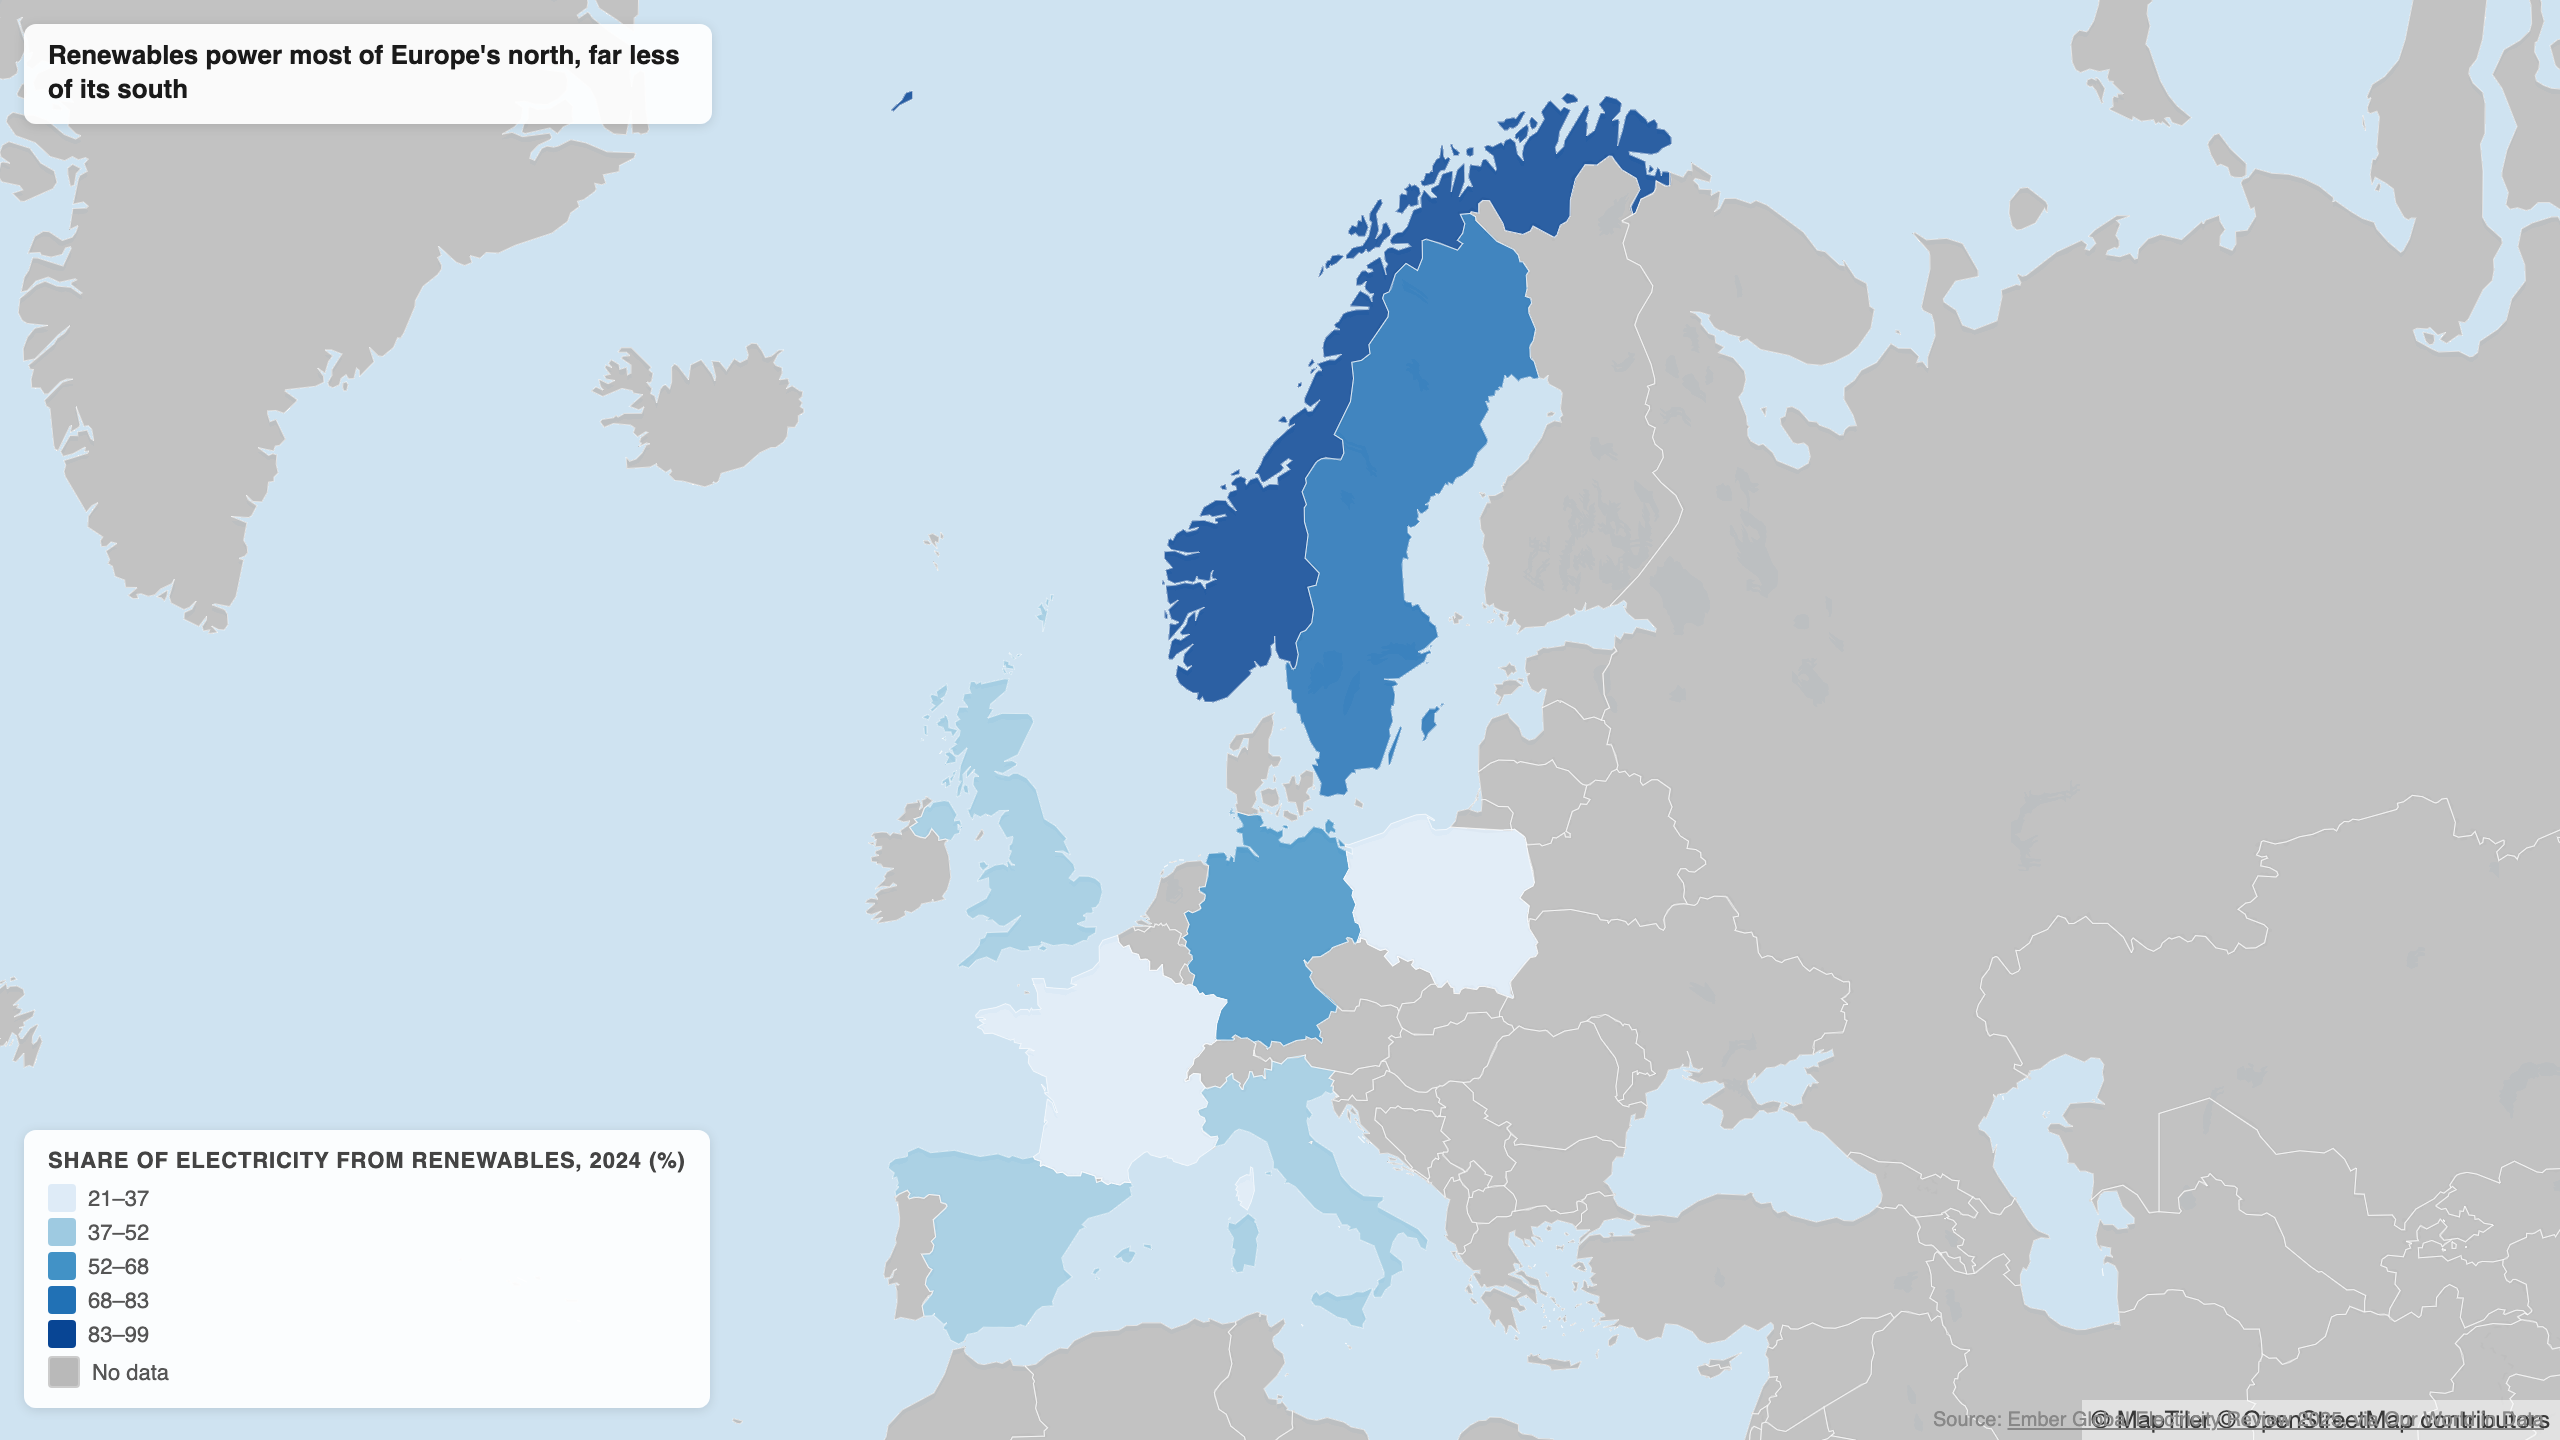
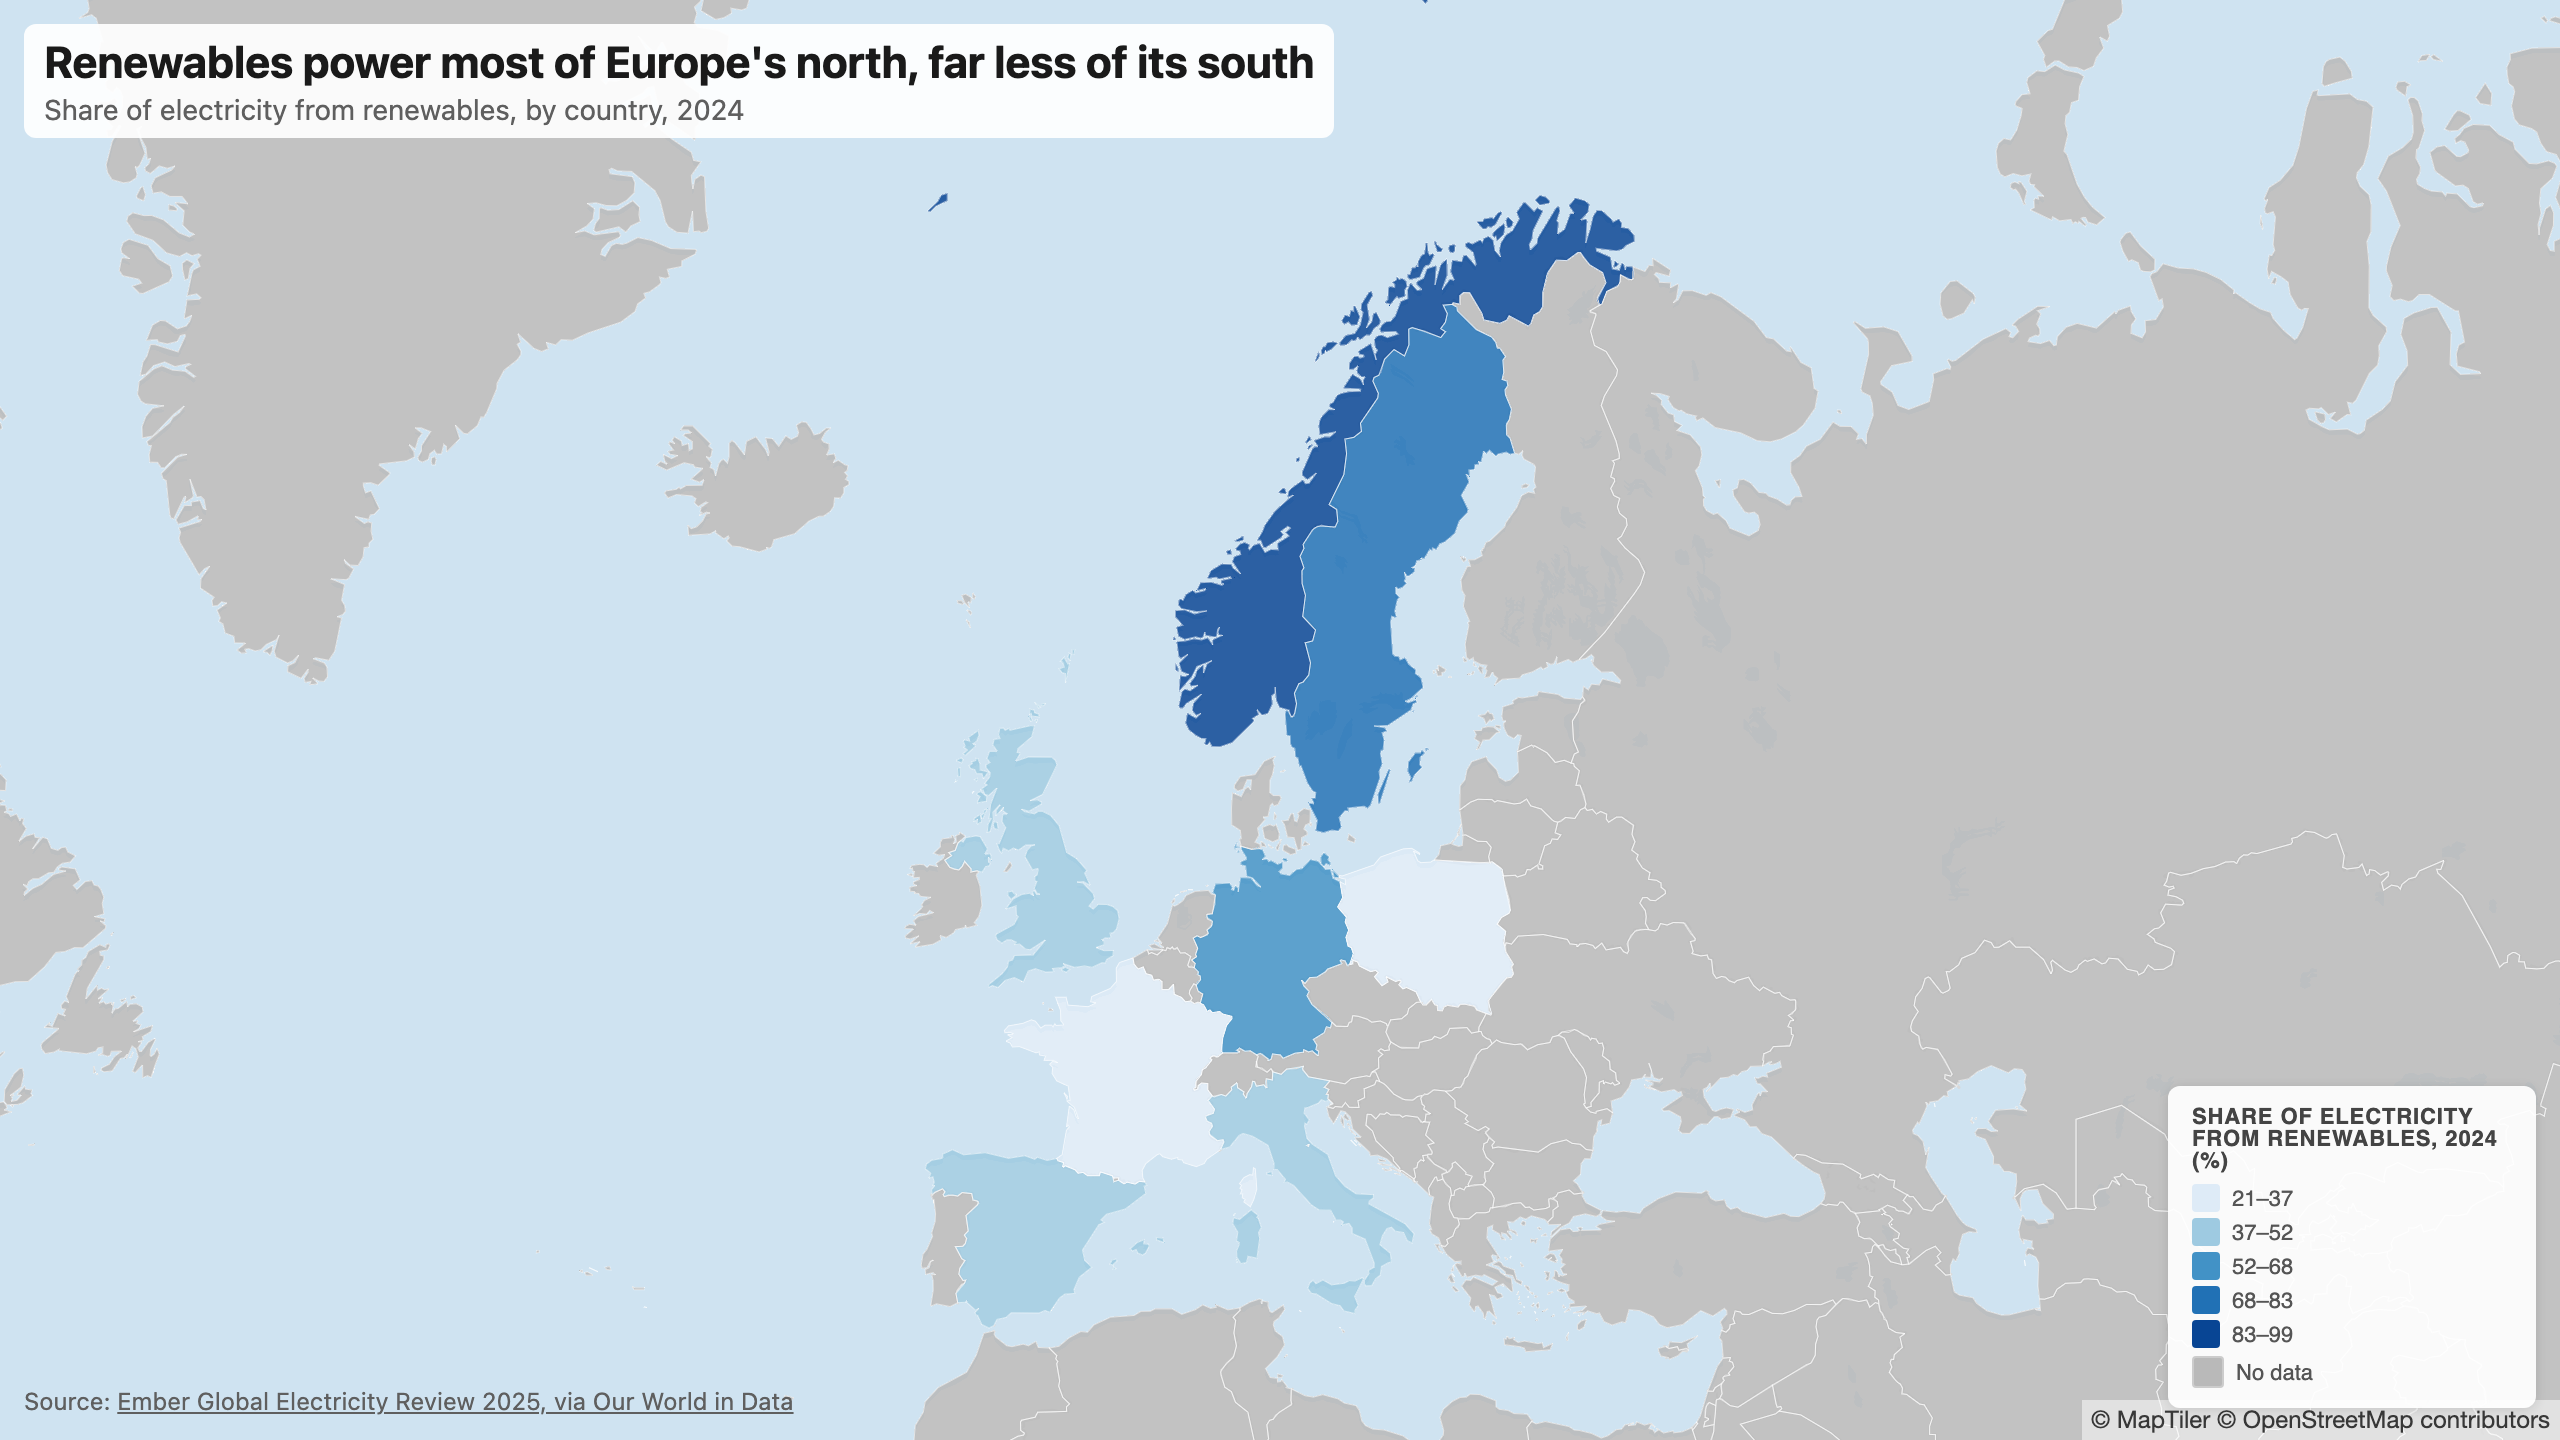
docs: record MapFrame parity slice 1 merged + maps-charts parity program (slices 2-4 remaining)

Changed region(s): [[0.3438, 0.0, 1.0, 1.0], [0.0, 0.0, 0.5312, 0.4688], [0.0, 0.5625, 0.3125, 1.0]]

diff --git a/CLAUDE.md b/CLAUDE.md
@@ -155,6 +155,12 @@ Atelier = **un skill open-source MIT, installable, agnostique runtime, local-fir
 - **Principe gravé (mémoire `feedback_capability_not_default`)** : quand un feature a plusieurs traitements valides (modes caméra vidéo : tour / zoom-out / pan / 3D), NE PAS coder un défaut — construire la capacité paramétrée, l'IA choisit par l'article. Vaut pour tous les types de map.
 - **RESTE — slice C (designé, pas construit)** : **système de modes caméra vidéo** (tour guidé ville par ville / zoom-out depuis le leader / pan cinématique / survol 3D différé), choisi par l'intention de l'article, sur l'infra `map-story.ts`+`story-timeline.ts` existante (déjà beat-driven frame-déterministe). Spec à écrire quand on l'attaque. Note : `text-allow-overlap:false` peut masquer des labels sous une caméra zoom-out → à gérer dans la slice C.
 
+## ★ PROGRAMME PARITÉ maps↔charts — « le même dispositif que les charts, pour les maps sous tous les formats »
+- **Origine** : retour Rémy — « le titre est sur des valeurs et doit pas sortir de l'écran vidéo » puis « récupère le process/la recette des charts pour faire pareil pour les maps et tous leurs formats, on assurera un bon résultat en prod ». Cartographie du gap chart-native↔map-native faite (synthèse : core pur OK, mais manquaient frame partagé, scaling format, conformance format-aware+cadrage, harnais vérif multi-largeur+a11y, KB). Découpé en **4 slices**, séquence 1→2→3→4.
+- **Slice 1 — MapFrame MERGÉ** (`745f31c`, 2026-06-29) : porté le triptyque chart `tokens`→`resolveFrame`→`ChartFrame` aux maps : `src/theme/map-tokens.ts` (FRAME_TYPE/FONT/COLORS) + `src/core/map-format.ts` `resolveMapFrame(w,h)` (pur, 9 tests : `scale` par canvas + `pad` safe-area asymétrique) + `src/core/MapFrame.tsx` (shell partagé : titre bande-haute + **source TOUJOURS rendue, vidéo incluse** — absente avant). Câblé aux 4 composants (ChoroplethMap/SymbolMap/ChoroplethStory/SymbolStory), `frame.pad`→`fitBounds` → titre-non-sur-donnée + rien-hors-cadre par construction. Vérifié à l'œil sur **les 2 types × tous formats**. LEÇON re-confirmée : un wrap conditionnel `if(title&&source)` = anti-pattern qui démonte le canvas MapTiler (blanc) → wrap inconditionnel ; et un artefact PNG périmé m'a fait croire à une régression → toujours re-render avant de juger.
+- **RESTE parité** : **Slice 2** (conformance format-aware : L0 partagé `checkGlobalMapConformance` + règles cadrage/lisibilité titre-non-sur-donnée/source-visible/rien-hors-champ, prend les dimensions) · **Slice 3** (harnais vérif : `snap-responsive.mjs` 360→1600 + `snap-a11y.mjs`) · **Slice 4** (KB : `map/design-conformance.md` + `map/types/choropleth.md`). Specs à écrire au fil.
+- **Dette pré-existante notée** (hors scope, à ticketer) : `bunx tsc --noEmit` échoue dans map-native faute de `@types/react-dom` (`tsconfig types:["react","react-dom"]`) — empêche un gate tsc sur les futures slices.
+
 ## Module unifié chart-native — MERGÉ (un composant → 3 formats) ★ jalon archi
 - **MERGÉ** : `skills/chart-native/` — **UN composant React+D3, piloté par `frame`** → **static + interactif + vidéo**. La vision « un module web → tous les formats » est prouvée.
 - **D3 = maths** (`chart-geometry.ts` pur, framework-free, porté du pilote chart-annotated, + `revealLine(layout, progress)` déterministe). **React = DOM** (car **Remotion = React only, PAS Svelte**). 3 dérivations : static (Vite build + Playwright snapshot), interactif (`vite-plugin-singlefile` → 1 HTML + tooltip), vidéo (Remotion composition `frame→Easing.inOut(cubic)→progress→le même composant`).
